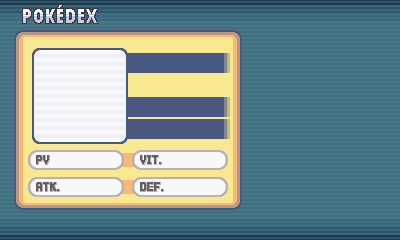
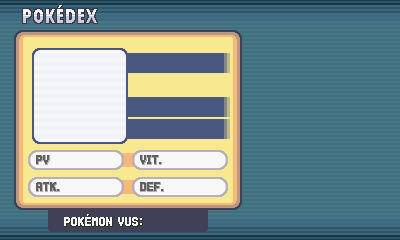
correction pokedex.py et menupokemon.py

Changed region(s): [[0.03, 0.1167, 0.6, 0.9625], [0.6, 0.1458, 0.63, 0.8458]]

diff --git a/pokemon_game/models/menupokemon.py b/pokemon_game/models/menupokemon.py
@@ -17,6 +17,10 @@ class menuPokemon:
         self.type_feu = pygame.transform.scale(self.type_feu, (196, 36))
         self.type_plante = pygame.image.load("pokemon_game/images/Type-plante.png")
         self.type_plante = pygame.transform.scale(self.type_plante, (196, 36))
+        self.type_normal = pygame.image.load("pokemon_game/images/Type-normal.png")
+        self.type_normal = pygame.transform.scale(self.type_normal, (196, 36))
+        self.sprite_inconnu = pygame.image.load("pokemon_game/images/Sprite-inconnu.png")
+        self.sprite_inconnu = pygame.transform.scale(self.sprite_inconnu, (128, 128))
         self.police_texte = pygame.font.Font("pokemon_game/typographie/BOMBARD_.ttf", 30)
         self.liste_pokemon = []
         self.pokemon_selectionnee = 0
@@ -74,6 +78,7 @@ class menuPokemon:
             texte_pkm = self.police_texte.render((self.liste_pokemon[index_pkm]).upper(), True, self.NOIR)
             self.fenetre.blit(texte_pkm, (576, 80 + i * 96))
         self.affichage_stat()
+        pygame.display.flip()
 
     def affichage_pokedex(self):
         self.fenetre.blit(self.image_fond, (0,0))
@@ -95,8 +100,12 @@ class menuPokemon:
                 self.fenetre.blit(texte_pkm, (576, 80 + i * 96))
         if self.liste_pokemon[self.pokemon_selectionnee] in liste_pokedex:
             self.affichage_stat()
+            nbr_pkm = self.police_texte.render(str(data[self.liste_pokemon[self.pokemon_selectionnee]]), True, self.NOIR)
+            self.fenetre.blit(nbr_pkm, (350, 425))
+            pygame.display.flip()
         else:
             self.affichage_masque()
+            pygame.display.flip()
     
     def affichage_stat(self):
         dico_pokemon = self.data[self.liste_pokemon[self.pokemon_selectionnee]]
@@ -111,27 +120,25 @@ class menuPokemon:
             self.fenetre.blit(self.type_feu, (260, 152))
         if dico_pokemon["type"] == "terre":
             self.fenetre.blit(self.type_plante, (260, 152))
+        if dico_pokemon["type"] == "normal":
+            self.fenetre.blit(self.type_normal, (260, 152))
 
         self.fenetre.blit(texte_nom, (268, 106))
         self.fenetre.blit(texte_pv, (160, 304))
         self.fenetre.blit(texte_atk, (160, 359))
         self.fenetre.blit(texte_vit, (388, 304))
         self.fenetre.blit(texte_def, (388, 359))
-        
-        pygame.display.flip()
 
     def affichage_masque(self):
-        dico_pokemon = self.data[self.liste_pokemon[self.pokemon_selectionnee]]
         texte_nom = self.police_texte.render("????", True, self.NOIR)
         texte_pv = self.police_texte.render("??", True, self.NOIR)
         texte_atk = self.police_texte.render("??", True, self.NOIR)
         texte_vit = self.police_texte.render("??", True, self.NOIR)
         texte_def = self.police_texte.render("??", True, self.NOIR)
 
+        self.fenetre.blit(self.sprite_inconnu, (95, 125))
         self.fenetre.blit(texte_nom, (268, 106))
         self.fenetre.blit(texte_pv, (160, 304))
         self.fenetre.blit(texte_atk, (160, 359))
         self.fenetre.blit(texte_vit, (388, 304))
         self.fenetre.blit(texte_def, (388, 359))
-        
-        pygame.display.flip()
